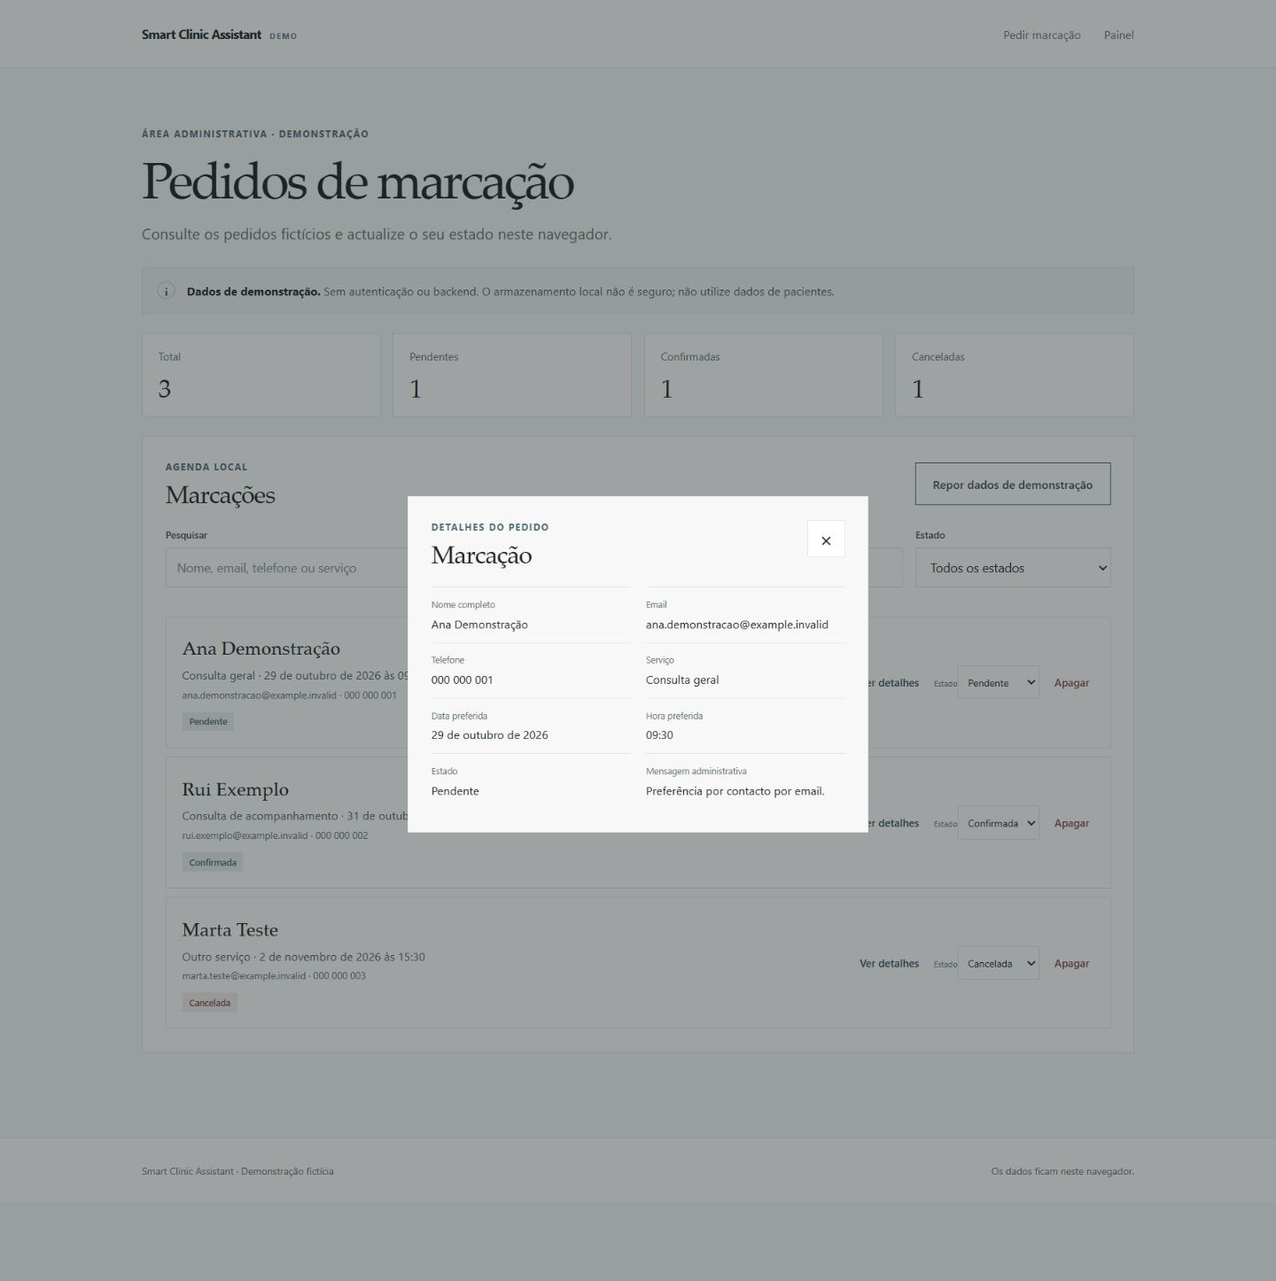
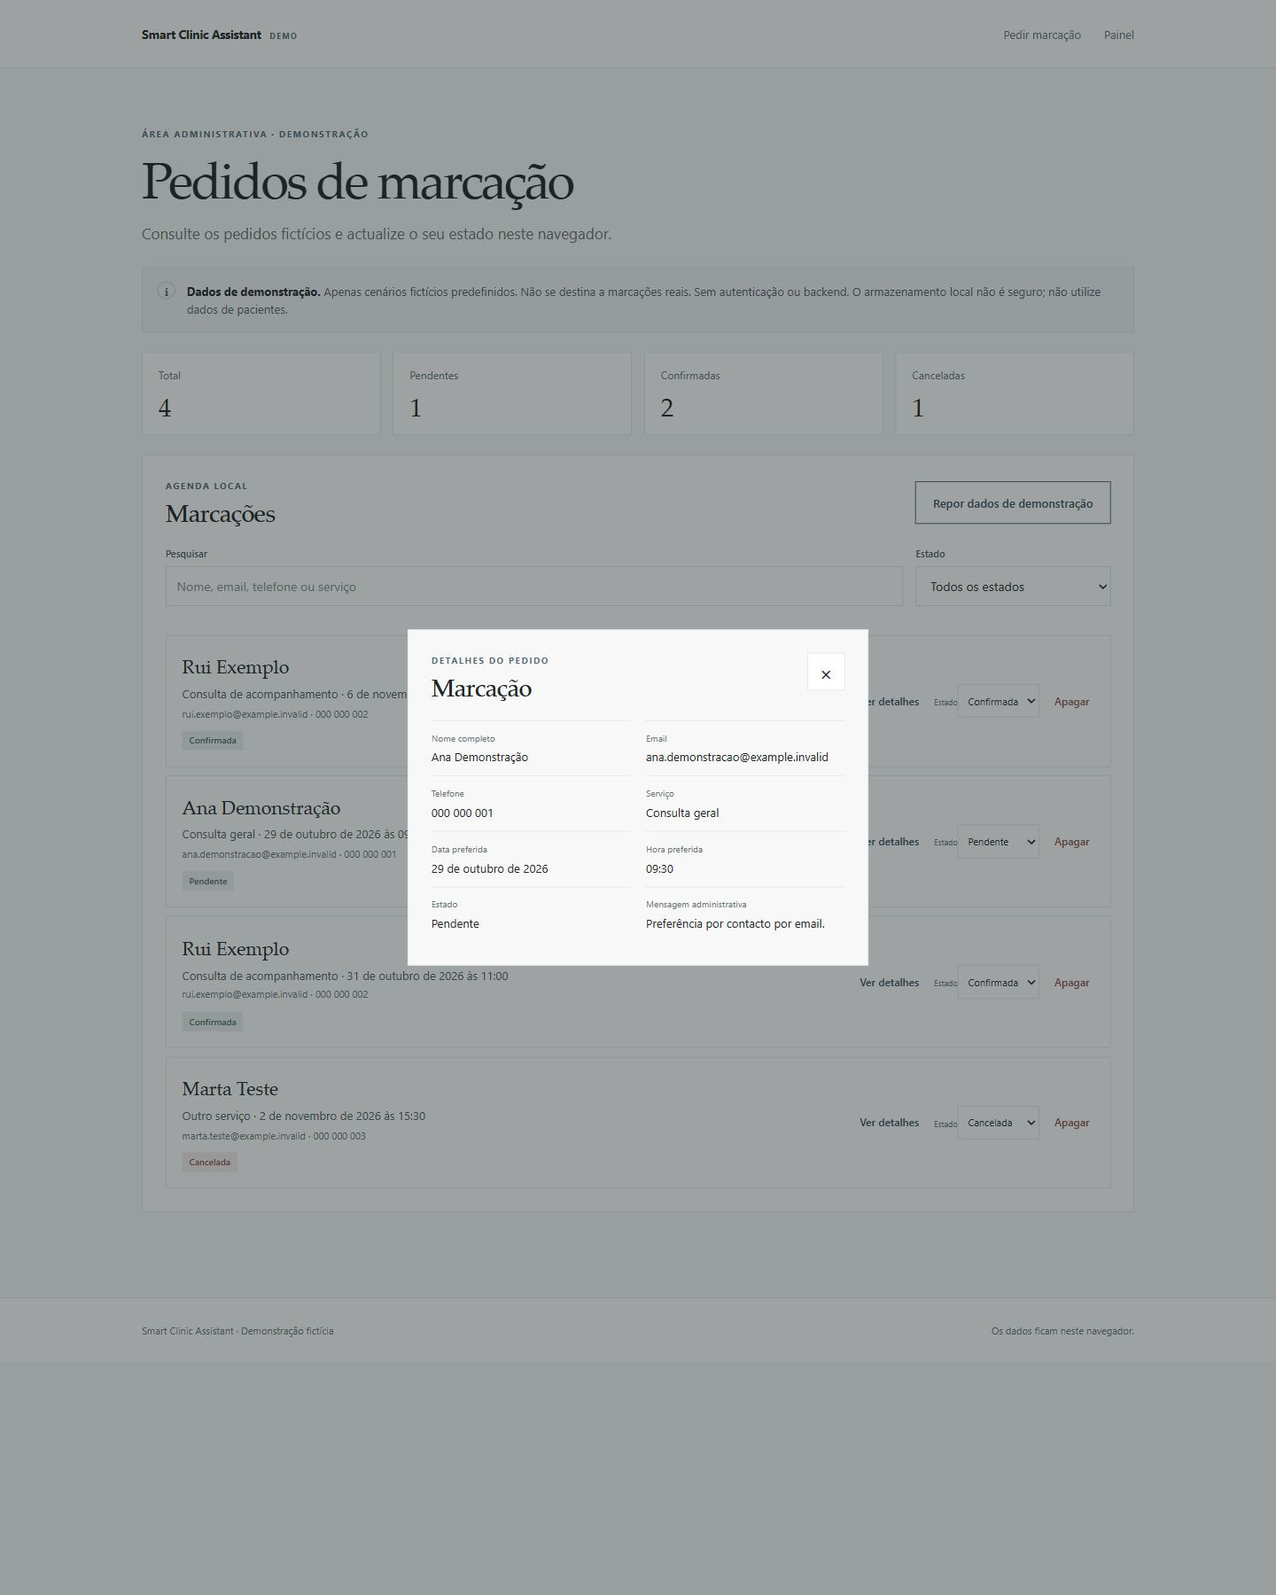
Update Smart Clinic public demo screenshots

diff --git a/src/content/projects/pt/smart-clinic-assistant.md b/src/content/projects/pt/smart-clinic-assistant.md
@@ -1,11 +1,11 @@
 ---
 locale: pt
-kind: Demonstração local
+kind: Demonstração pública · Dados fictícios
 title: Smart Clinic Assistant
 caseStudy: true
 demoUrl: https://tiagoapsantos.github.io/smart-clinic-assistant/
 sourceUrl: https://github.com/tiagoapsantos/smart-clinic-assistant
-description: Demonstração fictícia de gestão local de marcações, com formulário de pedido e painel administrativo para pesquisa, filtros, consulta de detalhes e actualização de estados. Guarda os dados no localStorage; não tem backend nem autenticação e não utiliza dados reais de pacientes.
+description: Demonstração pública e fictícia de gestão de pedidos, com identidades e mensagens predefinidas, pesquisa, filtros, detalhes e estados. Guarda apenas opções de simulação no navegador; sem contactos livres, backend ou autenticação.
 tags:
   - Astro
   - TypeScript
@@ -14,56 +14,60 @@ tags:
 images:
   - src: /images/projects/smart-clinic-form.jpg
     width: 1440
-    height: 1446
-    alt: Formulário completo de pedido de marcação, com campos de contacto, serviço, data, hora e mensagem administrativa, e aviso de demonstração fictícia.
+    height: 1800
+    alt: "Formulário público de simulação com selector de pessoa fictícia, contactos e mensagem fixos, serviço, data e hora, e aviso de que não cria marcações reais."
   - src: /images/projects/smart-clinic-dashboard.jpg
     width: 1440
-    height: 1446
-    alt: Dashboard administrativo completo, com quatro contadores, pesquisa, filtro por estado e três pedidos fictícios, pendente, confirmado e cancelado.
+    height: 1800
+    alt: "Dashboard da demonstração pública com quatro pedidos fictícios, contadores, pesquisa, filtro de estado e controlos de detalhe, alteração e remoção."
   - src: /images/projects/smart-clinic-detail.jpg
     width: 1440
-    height: 1446
-    alt: Diálogo completo do pedido fictício de Ana Demonstração sobre o dashboard, com contacto de exemplo, serviço, data, hora, estado e preferência de contacto.
+    height: 1800
+    alt: "Detalhe completo do pedido fictício de Ana Demonstração, com contacto e mensagem predefinidos, disponibilidade e estado, sobre o dashboard."
 ---
 
 ## Contexto e objectivo
 
-O Smart Clinic Assistant é uma **demonstração local e fictícia** de um fluxo de pedidos de marcação. O exercício aproxima duas tarefas de operações digitais: recolher um pedido de forma estruturada e facilitar a sua consulta num painel administrativo.
+O Smart Clinic Assistant é uma **demonstração pública e fictícia**, disponível no GitHub Pages, de um fluxo de pedidos e gestão administrativa. Não se destina a marcações reais nem a dados clínicos ou pessoais reais. O exercício permite explorar a organização da informação e a clareza da interface.
 
-Não representa trabalho para uma clínica, um serviço de marcações em produção ou um produto clínico validado. O seu interesse está na organização da informação e na clareza da interface.
+Não representa trabalho para uma clínica, um serviço de marcações em produção ou um produto clínico validado. O dashboard é público e não tem controlo de acesso.
 
 ## Problema e abordagem
 
-Um pedido precisa de reunir contacto, serviço pretendido e disponibilidade; a consulta administrativa precisa de permitir encontrar esse pedido e reconhecer o seu estado. A proposta separa estas necessidades em duas vistas: **formulário de pedido** e **painel de gestão**.
+A proposta separa a simulação de um pedido da sua consulta no painel. O visitante escolhe uma das três identidades fictícias; nome, email, telefone e mensagem administrativa são exemplos fixos, não editáveis. Pode seleccionar o serviço e indicar data e hora para explorar o fluxo, sem introduzir contactos livres.
 
-Nas capturas, a primeira vista dá prioridade ao preenchimento e explica onde ficam os dados. A segunda reúne totais, pesquisa, filtro por estado e uma lista de pedidos fictícios. Esta separação torna o percurso visível sem misturar recolha e gestão na mesma interface.
+As capturas mostram o formulário completo, o dashboard com quatro pedidos fictícios e o detalhe de Ana Demonstração. Os quatro pedidos incluem os três exemplos iniciais e uma simulação adicional de Rui Exemplo; não representam quatro pessoas reais.
 
 ## Funcionalidades confirmadas no código
 
-O código da aplicação independente foi inspeccionado: componentes Astro, tipos TypeScript, scripts do formulário e painel e módulo de armazenamento confirmam o formulário, pesquisa, filtros, detalhes, estados e persistência em `localStorage`. As capturas actuais da aplicação local mostram:
+O formulário, os scripts administrativos e o armazenamento da aplicação independente foram consultados e comparados com a interface pública. As capturas reais da versão publicada mostram:
 
-- **Pedido estruturado:** campos para nome, email, telefone, serviço, data, hora e mensagem administrativa opcional, com uma acção para guardar o pedido.
+- **Simulação restrita:** selector de pessoa fictícia, contactos e mensagem de leitura e opções de serviço, data e hora. Guardar não cria uma marcação real.
 - **Visão de conjunto:** contadores de pedidos totais, pendentes, confirmados e cancelados.
-- **Consulta administrativa:** campo de pesquisa por contacto ou serviço e selector de estado.
-- **Acções por pedido:** controlos para ver detalhes, alterar o estado e apagar; existe também um controlo para repor dados de demonstração.
-- **Transparência no ecrã:** avisos de demonstração fictícia, ausência de envio para uma clínica e instruções para não introduzir informação de saúde.
+- **Consulta administrativa:** pesquisa por contacto fictício ou serviço, combinada com filtro de estado.
+- **Gestão por pedido:** detalhe, alteração de estado e remoção; reposição dos três exemplos fictícios, com confirmação nas operações destrutivas.
+- **Transparência:** avisos de demonstração, ausência de envio para uma clínica e proibição de dados reais.
 
-Os scripts implementam a criação de pedidos, contadores, pesquisa combinada com estado, diálogo de detalhes, alteração de estado e remoção/reposição com confirmação. Para actualizar as capturas, a aplicação foi executada localmente e foram verificados no browser a pesquisa, o filtro por estado e a consulta de detalhes com dados fictícios. A aplicação mantém-se separada do portfolio.
+A criação de pedidos fictícios, a pesquisa, os filtros, o detalhe e a alteração de estado com persistência após recarregamento foram verificados na demonstração pública durante a publicação. A aplicação mantém-se independente do Portfolio.
 
 ## Decisões técnicas e implicações
 
-A configuração e o código confirmam **Astro, TypeScript, CSS e localStorage**. A persistência no navegador permite explorar o fluxo local descrito sem backend. Em contrapartida, não constitui armazenamento seguro nem um sistema partilhado entre pessoas ou dispositivos.
+A aplicação usa **Astro, TypeScript, CSS e localStorage**. O build estático funciona sob /smart-clinic-assistant/, sem servidor de aplicação, backend ou autenticação. Não existem integrações de agendas, envio de notificações ou submissão dos pedidos a uma clínica.
 
-A demonstração é documentada como não tendo autenticação. Assim, a existência de um painel administrativo não deve ser confundida com controlo de acesso. O formulário usa validação HTML, verificação adicional de email e data mínima no dia local. A leitura do armazenamento verifica campos, datas, horas e estados conhecidos. Se uma lista JSON válida tiver estrutura inválida, o código repõe exemplos fictícios; erros de leitura devolvem exemplos em memória. Não há backup versionado ou recuperação dos dados originais.
+A submissão constrói a identidade e a mensagem a partir do cenário conhecido, ignorando os contactos apresentados no formulário. A gravação valida os exemplos canónicos, as listas de serviço e estado, datas, horas e identificadores, com limite de 50 pedidos. A política de segurança dos documentos bloqueia ligações de dados e submissões de formulários.
+
+A chave de demonstração v2 guarda apenas identificador, referência ao cenário, serviço, data, hora, estado e timestamp. Os contactos e mensagens são reconstruídos a partir dos exemplos. A chave antiga v1, que aceitava texto livre, não é lida, migrada ou apagada automaticamente. Dados antigos eventualmente introduzidos numa versão anterior exigem remoção manual na origem e perfil correspondentes.
 
 ## Limitações e alcance
 
-O projecto utiliza dados fictícios, sem backend nem autenticação. Não há evidência de integração com agendas externas, envio de notificações ou utilização por uma clínica. Não são apresentados resultados de negócio, testes clínicos ou métricas de utilização.
+localStorage não é armazenamento seguro, encriptado ou sincronizado. As subpastas do mesmo domínio partilham a origem; a chave própria evita mistura acidental, mas não constitui uma fronteira de segurança. O modo fictício reduz a introdução acidental de dados reais, sem impedir alterações manuais nas ferramentas de desenvolvimento. O painel não é adequado a informação real de pacientes.
 
-As três capturas em português foram obtidas da versão local de produção da aplicação, com os exemplos fictícios incluídos no projecto. Não há comando de testes nem suite automatizada configurada nessa aplicação; não se atribuem os testes dos outros projectos a este caso.
+A aplicação possui **12 testes essenciais aprovados** na preparação/publicação: cenários predefinidos, rejeição de dados arbitrários, validação, persistência, limites, isolamento da chave antiga, recursos estáticos e operações de apagar/repor. Quatro testes executam os handlers reais com aceitar/cancelar simulados, verificando dados, contadores e feedback. Isto não equivale a uma auditoria integral ou a testes nativos em todos os browsers.
+
+As três capturas foram recolhidas directamente da demonstração pública em português, com identidades e contactos fictícios, à mesma resolução e escala. Não se reivindicam utilização por uma clínica, testes clínicos ou resultados de negócio.
 
 ## Aprendizagens e próximos passos
 
-O exercício permite analisar a passagem de um formulário para uma vista de operações, a relação entre estados e contadores e a importância de explicar as limitações do armazenamento local. As capturas mostram também como os avisos e os exemplos fictícios podem fazer parte do próprio percurso visual.
+O projecto demonstra a passagem de uma simulação de formulário para uma vista de operações, a coerência entre estados e contadores e a importância de limitar os dados aceites por uma demonstração pública.
 
-Um próximo passo é acrescentar testes automatizados e voltar a verificar o percurso completo: guardar, procurar, consultar e actualizar um pedido fictício, incluindo navegação por teclado e situações de erro. Estes testes são uma recomendação, não resultados já obtidos.
+Próximos passos possíveis são ampliar a cobertura de browser, teclado, leitores de ecrã e situações de erro. Um eventual sistema real exigiria requisitos próprios de segurança e privacidade; o alojamento estático e o armazenamento local desta demonstração não satisfazem esse objectivo.

diff --git a/src/content/projects/en/smart-clinic-assistant.md b/src/content/projects/en/smart-clinic-assistant.md
@@ -1,11 +1,11 @@
 ---
 locale: en
-kind: Local demonstration
+kind: Public demonstration · Fictional data
 title: Smart Clinic Assistant
 caseStudy: true
 demoUrl: https://tiagoapsantos.github.io/smart-clinic-assistant/
 sourceUrl: https://github.com/tiagoapsantos/smart-clinic-assistant
-description: A fictional local appointment-management demo with a request form and admin dashboard for search, filtering, appointment details and status updates. It persists data in localStorage; there is no backend or authentication, and it uses no real patient data.
+description: A public fictional request-management demo with preset identities and messages, search, filters, details and statuses. Only simulation options persist in the browser; no freely entered contacts, backend or authentication.
 tags:
   - Astro
   - TypeScript
@@ -14,56 +14,60 @@ tags:
 images:
   - src: /images/projects/smart-clinic-form.jpg
     width: 1440
-    height: 1446
-    alt: Complete appointment request form with contact, service, date, time and administrative message fields, plus a fictional demonstration notice.
+    height: 1800
+    alt: "Public simulation form with a fictional-person selector, fixed contact details and message, service, date and time, plus a notice that no real booking is created."
   - src: /images/projects/smart-clinic-dashboard.jpg
     width: 1440
-    height: 1446
-    alt: Complete admin dashboard with four summary counts, search, a status filter and three fictional requests, pending, confirmed and cancelled.
+    height: 1800
+    alt: "Public demo dashboard with four fictional requests, summary counts, search, a status filter and controls for details, status changes and deletion."
   - src: /images/projects/smart-clinic-detail.jpg
     width: 1440
-    height: 1446
-    alt: Complete dialog for Ana Demonstração's fictional request over the dashboard, with example contact details, service, date, time, status and contact preference.
+    height: 1800
+    alt: "Complete details of Ana Demonstração's fictional request, with preset contact details and message, availability and status, over the dashboard."
 ---
 
 ## Context and goal
 
-Smart Clinic Assistant is a **fictional, local demonstration** of an appointment-request workflow. The exercise connects two digital operations tasks: collecting a structured request and making it easier to review in an administrative dashboard.
+Smart Clinic Assistant is a **public fictional demonstration**, available on GitHub Pages, of a request and administrative-management workflow. It is not intended for real bookings or real clinical or personal data. The exercise explores information organisation and interface clarity.
 
-It does not represent work for a clinic, a production booking service or a clinically validated product. Its focus is information organisation and interface clarity.
+It does not represent work for a clinic, a production booking service or a clinically validated product. The dashboard is public and has no access control.
 
 ## Problem and approach
 
-A request needs contact details, a service and preferred availability; an administrative view needs a way to find that request and recognise its status. The proposal separates these needs into two views: a **request form** and a **management dashboard**.
+The design separates simulating a request from reviewing it in the dashboard. Visitors choose one of three fictional identities; the name, email, phone number and administrative message are fixed, read-only examples. They can select a service and enter a date and time to explore the workflow, without freely entering contact details.
 
-In the captures, the first view prioritises form completion and explains where data stays. The second brings together totals, search, a status filter and a list of fictional requests. This separation makes the workflow visible without combining collection and management in one interface.
+The captures show the complete form, a dashboard with four fictional requests and Ana Demonstração's request details. The four requests include the three initial examples and an additional Rui Exemplo simulation; they do not represent four real people.
 
 ## Features confirmed in code
 
-The standalone application code has been inspected: Astro components, TypeScript types, form/dashboard scripts and a storage module confirm the form, search, filters, details, statuses and `localStorage` persistence. The current local application captures show:
+The standalone application's form, administrative scripts and storage were consulted and compared with the public interface. Real captures of the published version show:
 
-- **Structured requests:** fields for name, email, phone, service, date, time and an optional administrative message, with an action to save the request.
+- **Restricted simulation:** a fictional-person selector, read-only contacts and message, and service, date and time options. Saving does not create a real booking.
 - **Overview:** counts for total, pending, confirmed and cancelled requests.
-- **Administrative review:** a search field for contact details or services and a status selector.
-- **Request actions:** controls to view details, change status and delete, plus a control to restore demonstration data.
-- **On-screen transparency:** notices identifying a fictional demo, explaining that nothing is sent to a clinic and asking people not to enter health information.
+- **Administrative review:** search by fictional contact or service, combined with a status filter.
+- **Request management:** details, status changes and deletion; restoration of the three fictional examples, with confirmation for destructive operations.
+- **Transparency:** demonstration notices, no delivery to a clinic and instructions against using real data.
 
-The scripts implement request creation, counters, combined search/status filtering, a details dialog, status changes and confirmed deletion/reset. To update the captures, the application was run locally and search, status filtering and request details were checked in the browser using fictional data. The application remains separate from the portfolio.
+Creating fictional requests, search, filters, details and status changes persisting after reload were checked in the public demonstration during publication. The application remains independent of the Portfolio.
 
 ## Technical decisions and implications
 
-Configuration and source code confirm **Astro, TypeScript, CSS and localStorage**. Browser persistence supports exploration of the described local workflow without a backend. However, it is neither secure storage nor a shared system for multiple people or devices.
+The application uses **Astro, TypeScript, CSS and localStorage**. Its static build runs under /smart-clinic-assistant/, without an application server, backend or authentication. There are no calendar integrations, notifications or request submissions to a clinic.
 
-The demonstration is documented as having no authentication. An administrative dashboard should therefore not be mistaken for access control. The form uses HTML validation, an additional email check and a minimum date based on the local day. Storage reads validate fields, dates, times and known statuses. If a valid JSON array has an invalid structure, the code restores fictional examples; read failures return in-memory examples. There is no versioned backup or recovery of original data.
+Submission constructs the identity and message from the known scenario, ignoring the contact values displayed in the form. Storage validates canonical examples, allowed services and statuses, dates, times and identifiers, with a limit of 50 requests. The document security policy blocks data connections and form submissions.
+
+The v2 demo key stores only an identifier, scenario reference, service, date, time, status and timestamp. Contacts and messages are reconstructed from the examples. The old v1 key, which accepted free text, is not read, migrated or automatically deleted. Any data previously entered in an older version needs manual removal in the corresponding origin and browser profile.
 
 ## Limitations and scope
 
-The project uses fictional data, with no backend or authentication. There is no evidence of external calendar integration, notification delivery or use by a clinic. No business results, clinical tests or usage metrics are claimed.
+localStorage is not secure, encrypted or synchronised storage. Subpaths on the same domain share an origin; a dedicated key prevents accidental mixing but is not a security boundary. The fictional mode reduces accidental entry of real data without preventing manual changes through developer tools. The dashboard is unsuitable for real patient information.
 
-The three Portuguese captures were taken from the application's local production build, using the fictional examples included in the project. That application has no configured test command or automated suite; tests from other projects are not attributed to it.
+The application has **12 essential tests that passed** during preparation/publication: preset scenarios, rejection of arbitrary data, validation, persistence, limits, isolation of the old key, static resources and delete/reset operations. Four tests execute the real handlers with simulated accept/cancel responses, checking data, counts and feedback. This is not a comprehensive audit or native-dialog testing across every browser.
+
+The three captures were taken directly from the public Portuguese demonstration, using fictional identities and contacts at the same resolution and scale. No clinical use, clinical tests or business results are claimed.
 
 ## Learning and next steps
 
-The exercise offers a way to examine the transition from a form to an operations view, the relationship between statuses and counters, and the importance of explaining local storage limitations. The captures also show how notices and fictional examples can be part of the visual journey itself.
+The project demonstrates the transition from a simulated form to an operations view, consistency between statuses and counts, and the importance of restricting the data accepted by a public demonstration.
 
-A useful next step is to add automated tests and rerun the complete journey: saving, searching, reviewing and updating a fictional request, including keyboard navigation and error conditions. These tests are a recommendation, not results already obtained.
+Possible next steps include broader browser, keyboard, screen-reader and error-state coverage. A real system would require its own security and privacy requirements; this demonstration's static hosting and local storage do not meet that purpose.
